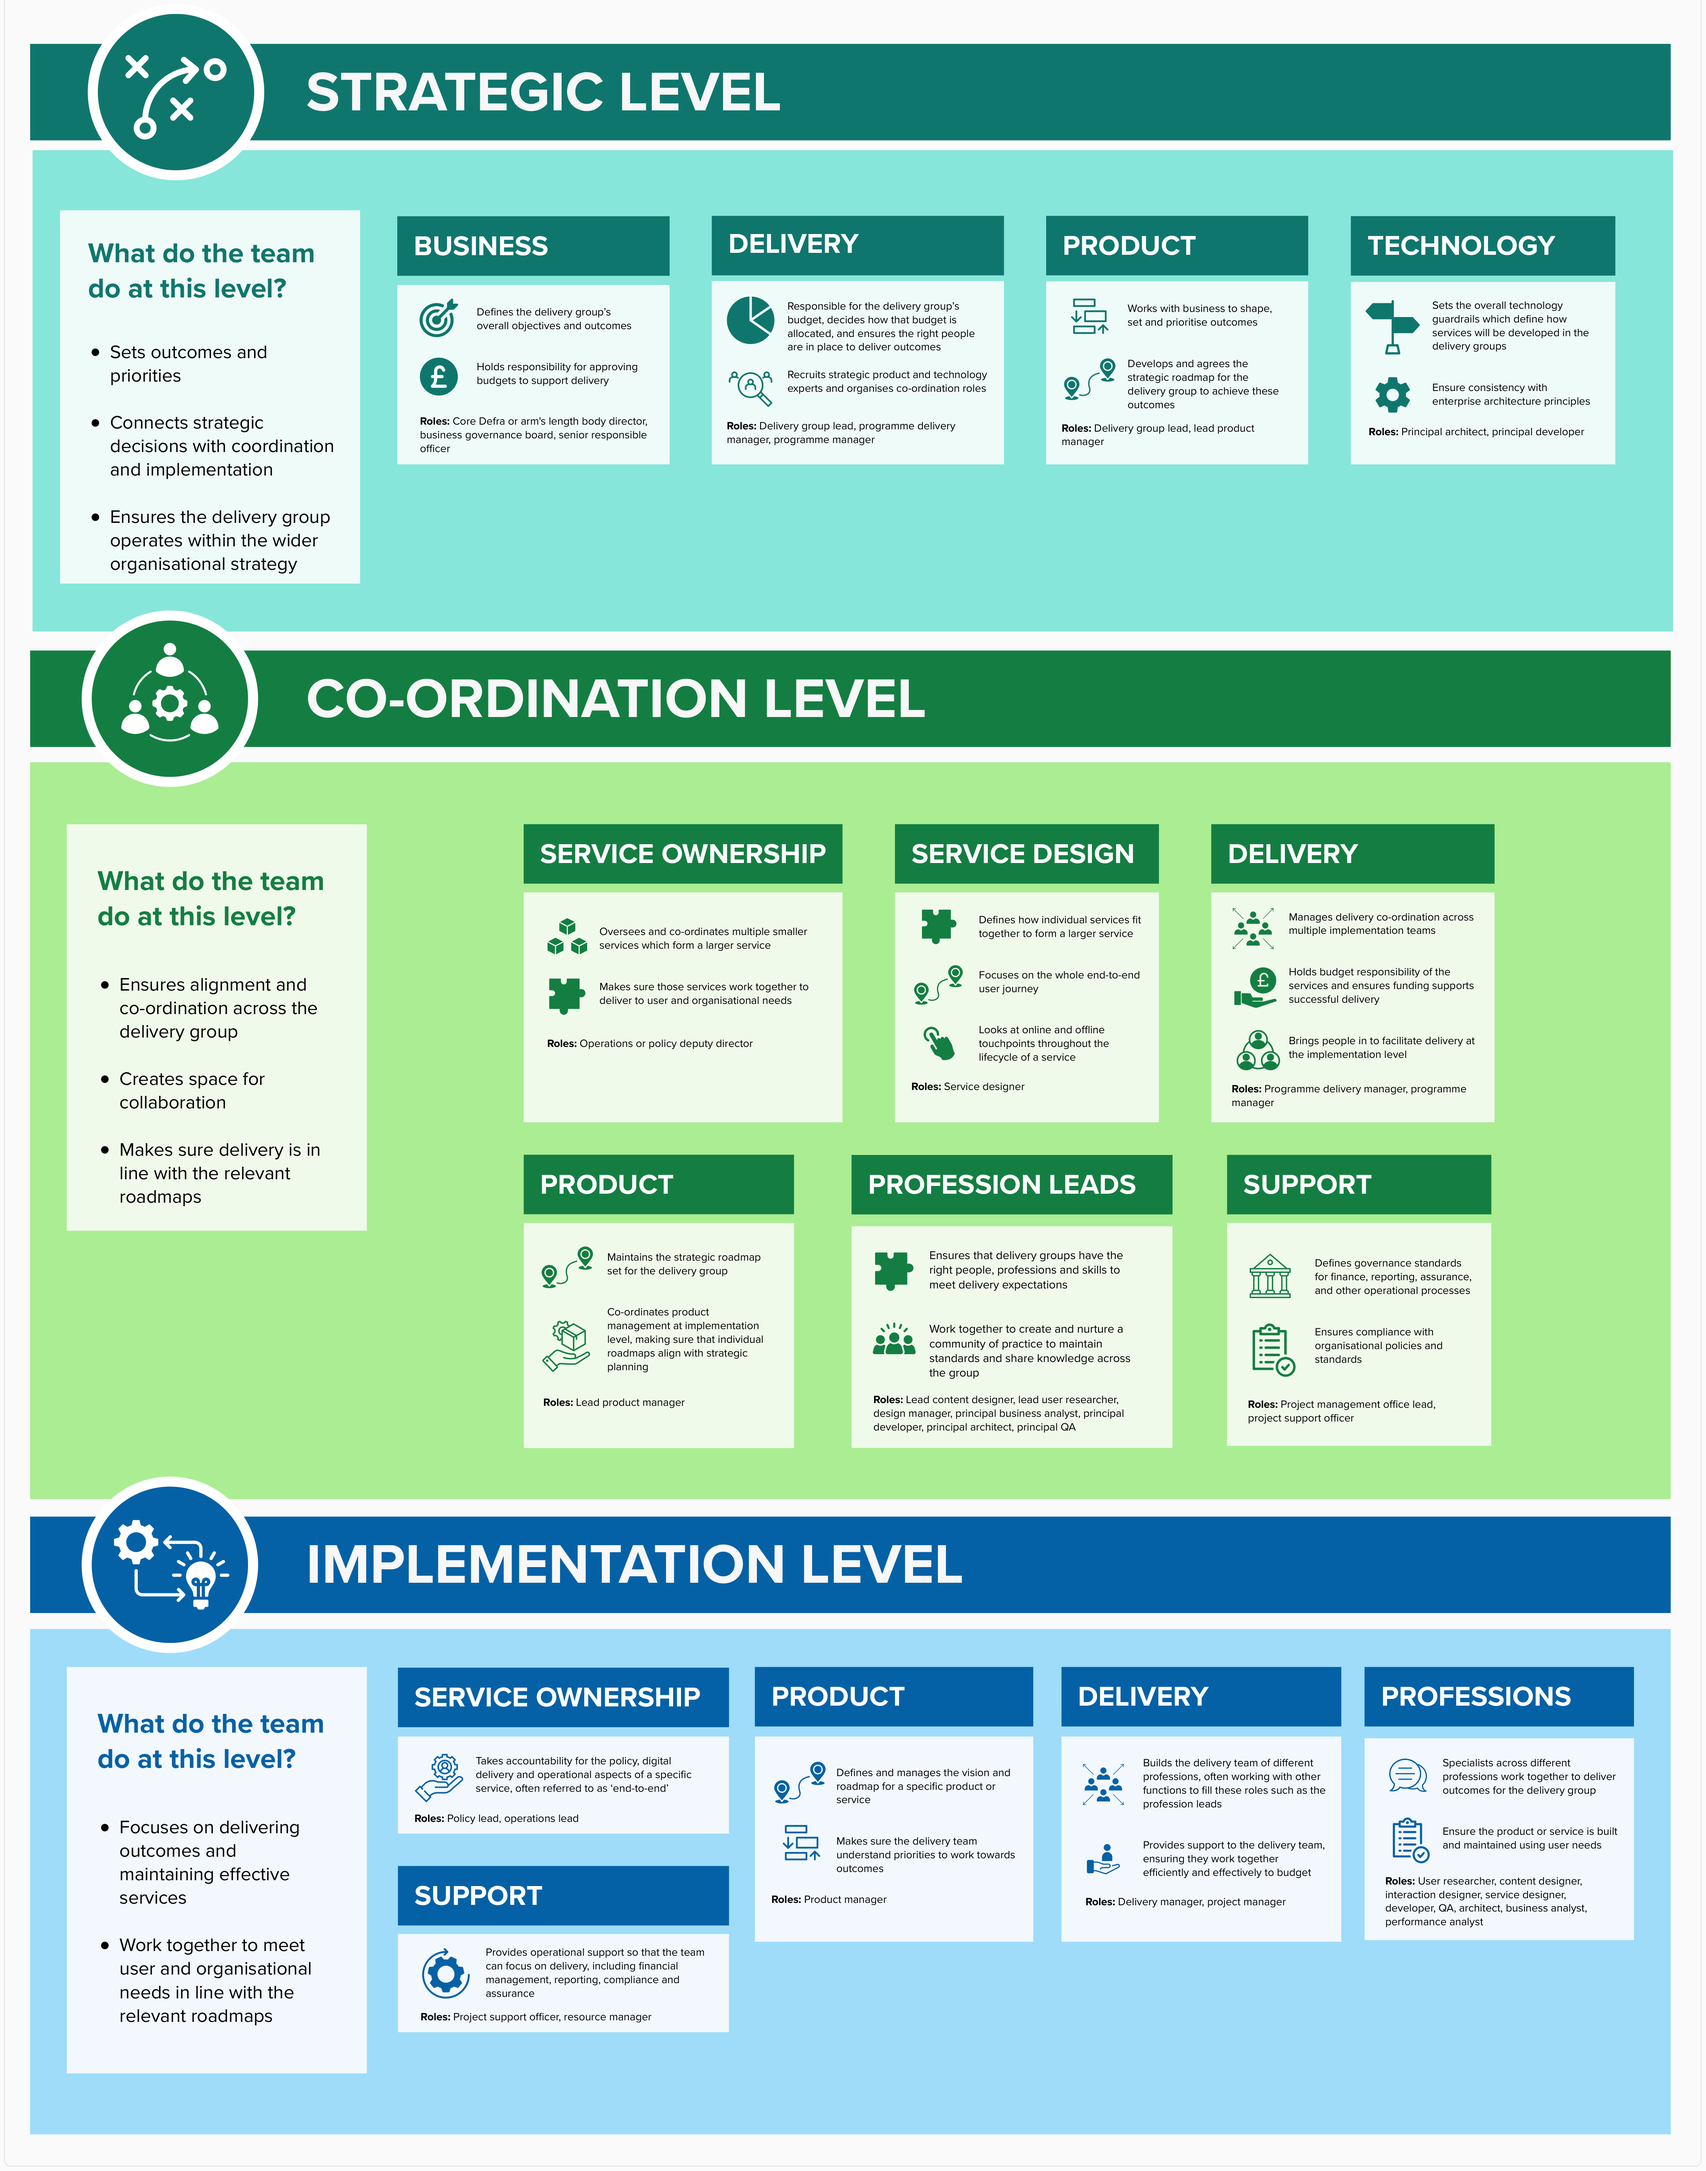
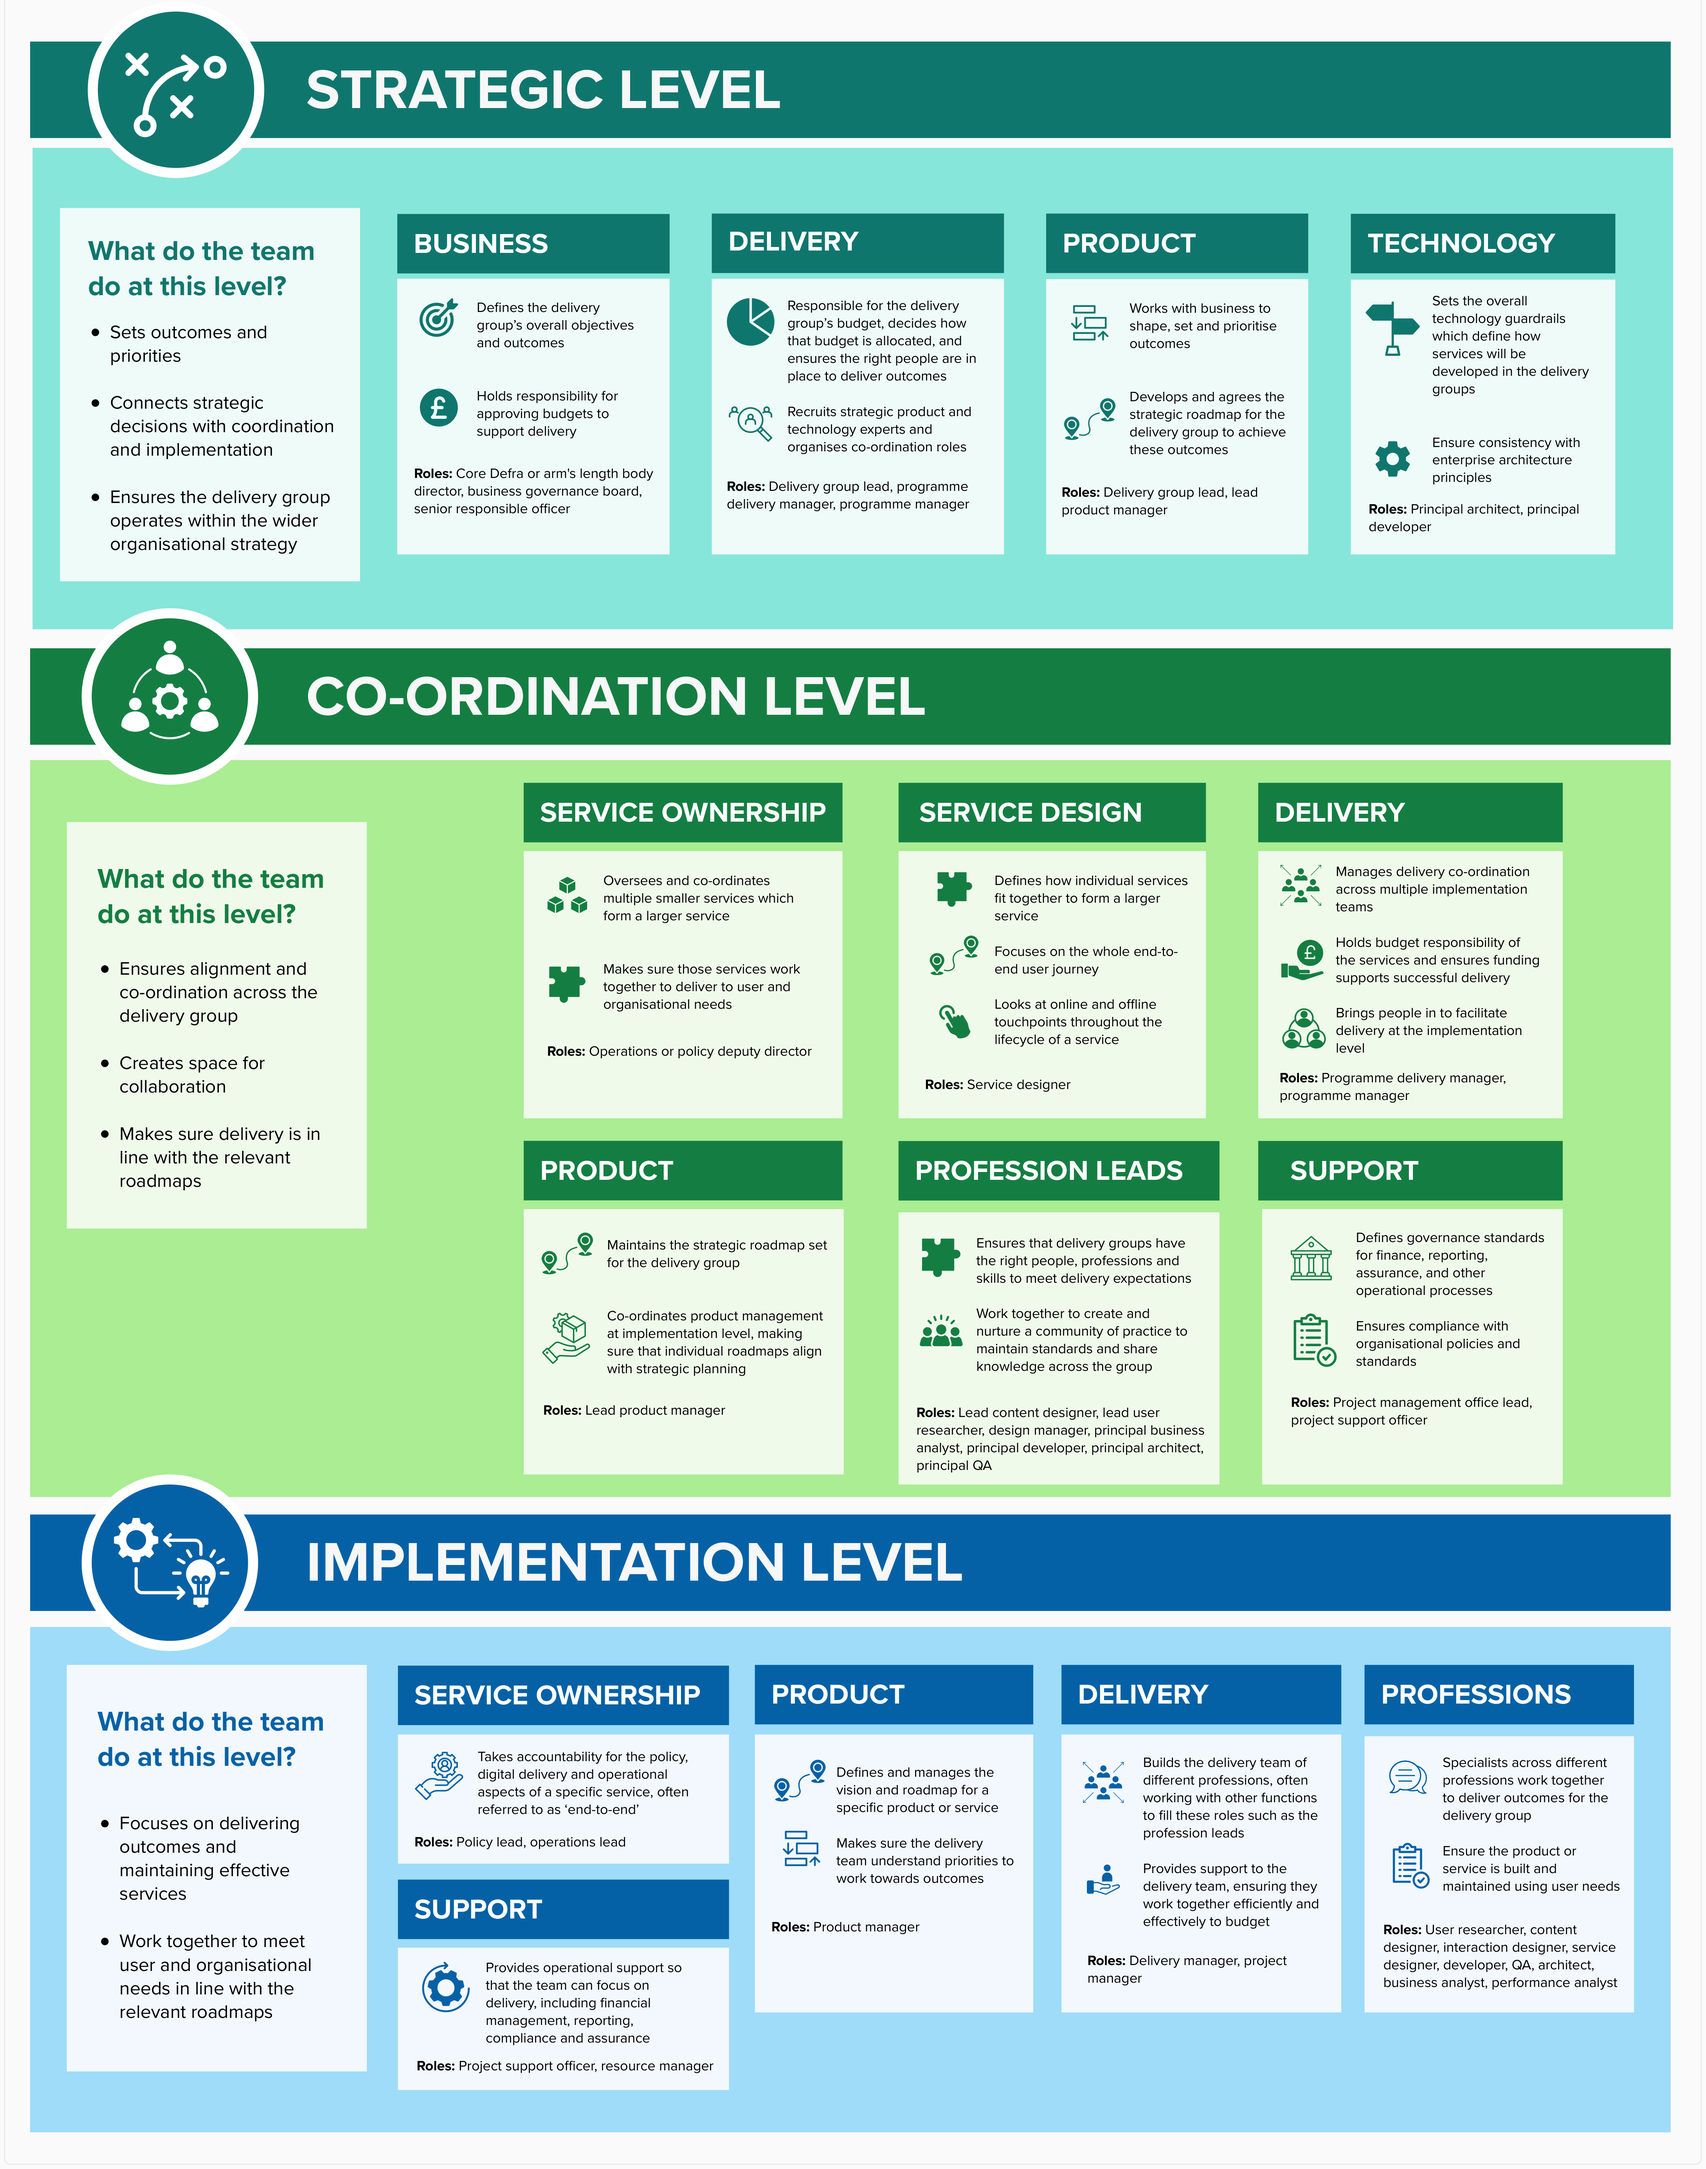
Updated governance model page
Added new larger font poster
Tidy up headings and links

diff --git a/docs/governance-model.md b/docs/governance-model.md
@@ -42,7 +42,7 @@ Sets the overall technology guardrails which define how services will be develop
 
 Roles: Principal architect, principal developer 
 
-## Co-ordination level 
+### Co-ordination level 
 
 Ensures alignment and co-ordination across the delivery group, creating space for collaboration and making sure delivery is in line with the relevant roadmaps. 
 
@@ -120,13 +120,13 @@ Roles: Project support officer, resource manager
 
 These versions highlight the information above in a visual way. These can be used to explain the model to different audiences. 
 
-### Simple visual 
-
-![A simplified visual version of the governance model. It uses an illustration to show that each level works together. It includes shortened information from the model about what each function’s actions.](/assets/images/governance-model-diagram.png) 
-
 ### Flow chart 
 
 [Delivery group governance model flow chart](/assets/images/delivery-group-governance-model-flow-chart.png 'Delivery group governance model flow chart') 
+
+### Simple visual 
+
+![A simplified visual version of the governance model. It uses an illustration to show that each level works together. It includes shortened information from the model about what each function’s actions.](/assets/images/governance-model-diagram.png) 
 
 ### Poster 
 
